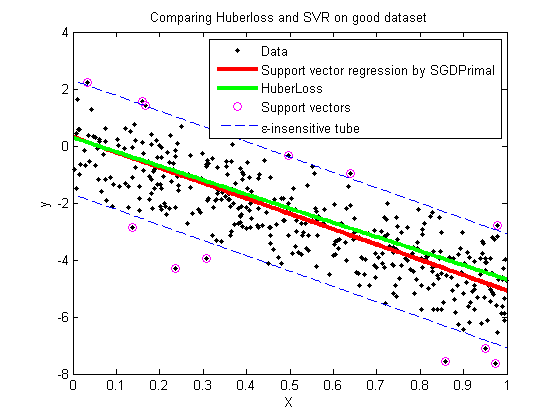
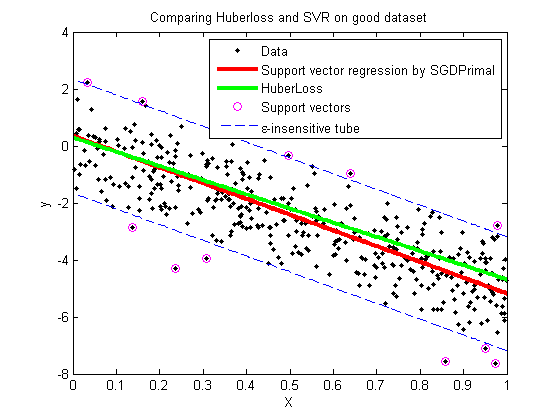
Updated the comparison figures and figure titles.

diff --git a/demoCompareHuberSVR.m b/demoCompareHuberSVR.m
@@ -39,7 +39,7 @@ plot(Xtest(ind), yhatSVR(ind)-SVR.epsilon, 'b--');  %chaged yhat =yhatSVR
 legend({'Data',SVR.name,HuberLoss.name,'Support vectors','\epsilon-insensitive tube'});
 xlabel('X');
 ylabel('y');
-title('User configured: \epsilon=2.0 solved with quadratic programming on smoothed primal');
+title('Comparing Huberloss and SVR on good dataset');
 
 %% ====================================================
 %% Model with outliers
@@ -62,7 +62,7 @@ yhatSVR = model_SVR.predict(model_SVR,Xtest);
 testErrorHuber = mean(abs(yhatHuber-ytest));
 testErrorSVR = mean(abs(yhatSVR-ytest));
 fprintf('Averaged absolute test error with %s is: %.3f\n',HuberLoss.name,testErrorHuber);
-fprintf('Averaged absolute test error with %s is: %.3f\n',model_SVR.name,testErrorSVR);
+fprintf('Averaged absolute test error with %s is: %.3f\n\n',model_SVR.name,testErrorSVR);
 
 %% Plot the performance of both models
 plotRegression1D(Xtrain,ytrain,model_SVR,HuberLoss);
@@ -76,7 +76,7 @@ plot(Xtest(ind), yhatSVR(ind)-model_SVR.epsilon, 'b--');
 legend({'Data',model_SVR.name,HuberLoss.name,'Support vectors','\epsilon-insensitive tube'});
 xlabel('X');
 ylabel('y');
-title('User configured: \epsilon=2.0 solved with quadratic programming on smoothed primal');
+title('Comparing Huberloss and SVR on outlier dataset');
 
 %% ====================================================
 %% When bad parameters are chosen for both
@@ -110,4 +110,4 @@ plot(Xtest(ind), yhatSVR(ind)-model_SVR.epsilon, 'b--');
 legend({'Data',model_SVR.name,HuberLoss.name,'Support vectors','\epsilon-insensitive tube'});
 xlabel('X');
 ylabel('y');
-title('User configured: \epsilon=2.0 solved with quadratic programming on smoothed primal');
+title('Comparing Huberloss and SVR on outlier dataset using bad parameters');
